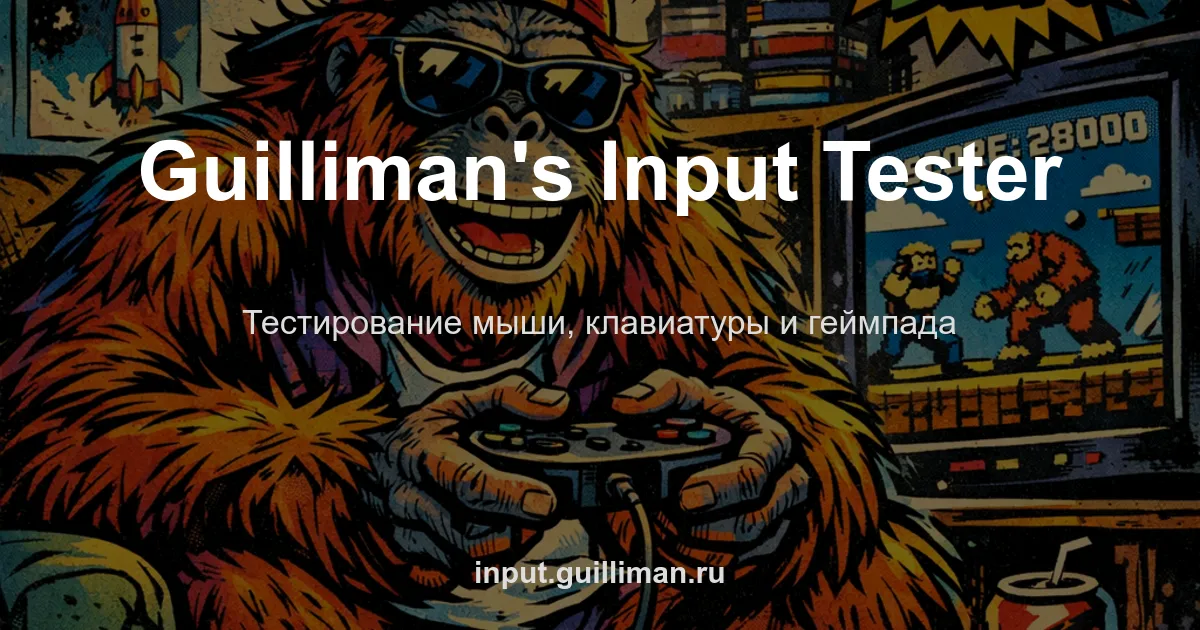
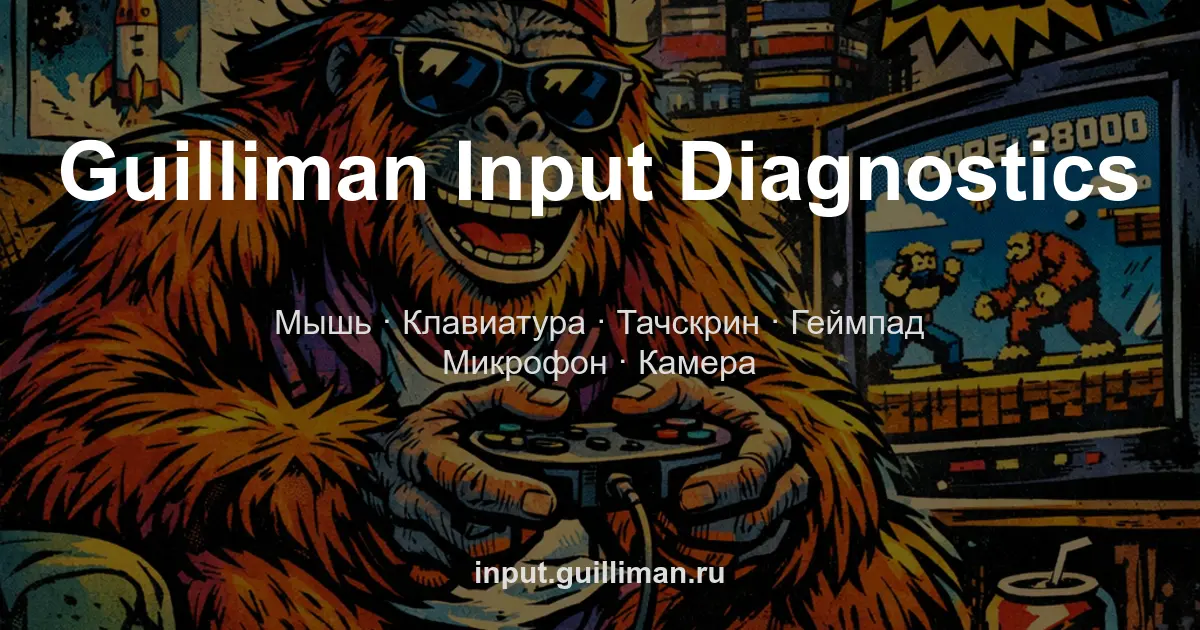
косметика

Changed region(s): [[0.0308, 0.2111, 0.9558, 0.3619], [0.185, 0.4825, 0.8017, 0.6032]]

diff --git a/index.html b/index.html
@@ -4,7 +4,10 @@
 <head>
   <meta charset="UTF-8">
   <meta name="viewport" content="width=device-width, initial-scale=1.0">
-  <title>Guilliman's Input Tester</title>
+  <title>Guilliman Input Diagnostics — input.guilliman.ru</title>
+  <meta name="description" content="Полный набор инструментов для диагностики мыши, клавиатуры, тачскрина, геймпада, микрофона и камеры.">
+  <meta name="keywords" content="тестирование мыши, проверка клавиатуры, тест тачскрина, диагностика геймпада, тест микрофона, проверка камеры, input tester, guilliman">
+  <meta name="author" content="Herman Guilliman">
   <link rel="icon" type="image/x-icon" href="img/favicon.ico">
   <link rel="icon" type="image/png" sizes="16x16" href="img/favicon-16x16.png">
   <link rel="icon" type="image/png" sizes="32x32" href="img/favicon-32x32.png">
@@ -13,16 +16,19 @@
   <meta name="msapplication-TileColor" content="#0a0a0a">
   <meta name="msapplication-config" content="browserconfig.xml">
   <meta name="theme-color" content="#0a0a0a">
-  <meta property="og:title" content="Guilliman's Input Tester - Тестирование мыши, клавиатуры и геймпада">
-  <meta property="og:description" content="Страница для тестирование мыши, клавиатуры и геймпада">
-  <meta property="og:site_name" content="Guilliman's Input Tester"/>
+  <meta property="og:title" content="Guilliman Input Diagnostics">
+  <meta property="og:description" content="Полный набор инструментов для диагностики мыши, клавиатуры, тачскрина, геймпада, микрофона и камеры.">
+  <meta property="og:site_name" content="input.guilliman.ru">
   <meta property="og:image" content="img/og-image.webp">
   <meta property="og:image:width" content="1200">
   <meta property="og:image:height" content="630">
   <meta property="og:type" content="website">
-  <meta property="og:url" content="https://guilliman.ru">
+  <meta property="og:url" content="https://input.guilliman.ru">
+  <meta property="og:locale" content="ru_RU">
   <meta name="yandex-verification" content="51133ed144e8f7d1" />
   <meta name="twitter:card" content="summary_large_image">
+  <meta name="twitter:title" content="Guilliman Input Diagnostics">
+  <meta name="twitter:description" content="Полный набор инструментов для диагностики мыши, клавиатуры, тачскрина, геймпада, микрофона и камеры.">
   <meta name="twitter:image" content="img/og-image.webp">
   <link rel="preconnect" href="https://fonts.googleapis.com">
   <link rel="preconnect" href="https://fonts.gstatic.com" crossorigin>
@@ -40,8 +46,8 @@
   <div class="app-container">
     <header>
       <div class="logo">
-        <img class="logo-icon" src="img/logo.png" alt="Guilliman's Input Tester">
-        <h1 data-i18n="appTitle">Guilliman's Input Tester</h1>
+        <img class="logo-icon" src="img/logo.png" alt="Guilliman Input Diagnostics">
+        <h1 data-i18n="appTitle">Guilliman Input Diagnostics</h1>
       </div>
 
       <div class="tabs" role="tablist">

diff --git a/js/i18n.js b/js/i18n.js
@@ -1,7 +1,7 @@
 window.I18n = (() => {
     const DICT = {
         ru: {
-            appTitle: "Guilliman's Input Tester",
+            appTitle: "Guilliman Input Diagnostics",
             tabTouch: "Сенсор",
             tabMouse: "Мышь",
             tabKeyboard: "Клавиатура",
@@ -65,7 +65,7 @@ window.I18n = (() => {
             camHint: "Нажмите «Старт» для запуска камеры",
         },
         en: {
-            appTitle: "Guilliman's Input Tester",
+            appTitle: "Guilliman Input Diagnostics",
             tabTouch: "Touch",
             tabMouse: "Mouse",
             tabKeyboard: "Keyboard",
@@ -128,7 +128,7 @@ window.I18n = (() => {
             camHint: "Press Start to activate camera",
         },
         zh: {
-            appTitle: "Guilliman's Input Tester",
+            appTitle: "Guilliman Input Diagnostics",
             tabTouch: "触屏",
             tabMouse: "鼠标",
             tabKeyboard: "键盘",
